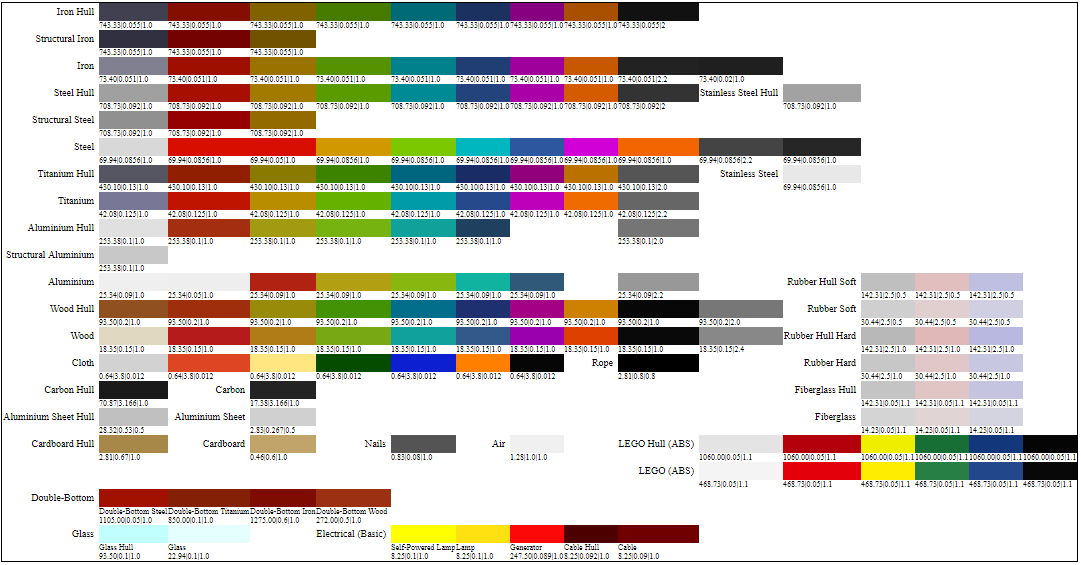
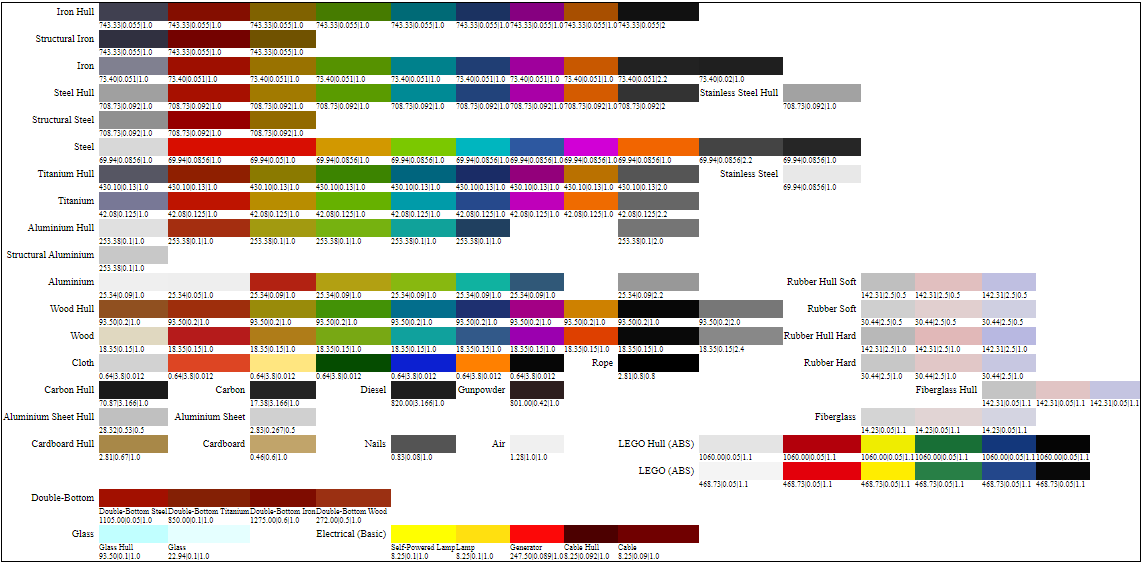
Added new explosive materials

Changed region(s): [[0.0, 0.0, 1.0, 0.9929], [0.0305, 0.8425, 0.6105, 0.9929], [0.6105, 0.9027, 0.6716, 0.9628]]

diff --git a/Scripts/generate_materials_template.py b/Scripts/generate_materials_template.py
@@ -53,7 +53,7 @@ def main():
         d_vals.append((row_name,col_order,col_name,elem))
 
     # Sort cols
-    for k,v in d.iteritems():
+    for k,v in d.items():
         d[k] = sorted(v, key=itemgetter(1))
 
 
@@ -73,7 +73,7 @@ def main():
     html += "<table style='border: 1px solid black' cellpadding=0 cellspacing={}>".format(spacing)
 
     # Visit all rows
-    for k in sorted(d.iterkeys()):
+    for k in sorted(d.keys()):
 
         input_col_values = d[k]
 

diff --git a/Guides/Material System.md b/Guides/Material System.md
@@ -75,7 +75,7 @@ Here's an explanation of the elements:
 - _render color_: the RGB color to use when rendering certain particles of this material.
 - _rust receptivity_: the degree to which this material rusts when wet; when not set, assumed to be 1.0. A value of 0.0 turns off rusting for this material altogether.
 - _sound type_: the type of sound to play when a spring or point of this material is stressed or breaks. Valid values are: "AirBubble", "Cable", "Cloth", "Glass", "Metal", "Plastic", "Rubber", and "Wood".
-- _specific hear_: how much heat this material needs in order to raise its temperature by one Kelvin, in J/(Kg*K)
+- _specific heat_: how much heat one kilogram of this material needs in order to raise its temperature by one Kelvin, in J/(Kg*K)
 - _stiffness_: how quickly a spring of this material wants to return to its original length. This is not really free, as values higher than 1.2 tend to make springs explode. Lower values will though make the spring quite soft.
 - _strength_: the maximum relative stretch (length difference wrt rest length, over rest length) before a spring of this material breaks. 
    - For example, 0.01 means that a spring will break after it gets shorter or longer by 1% of its rest length.
